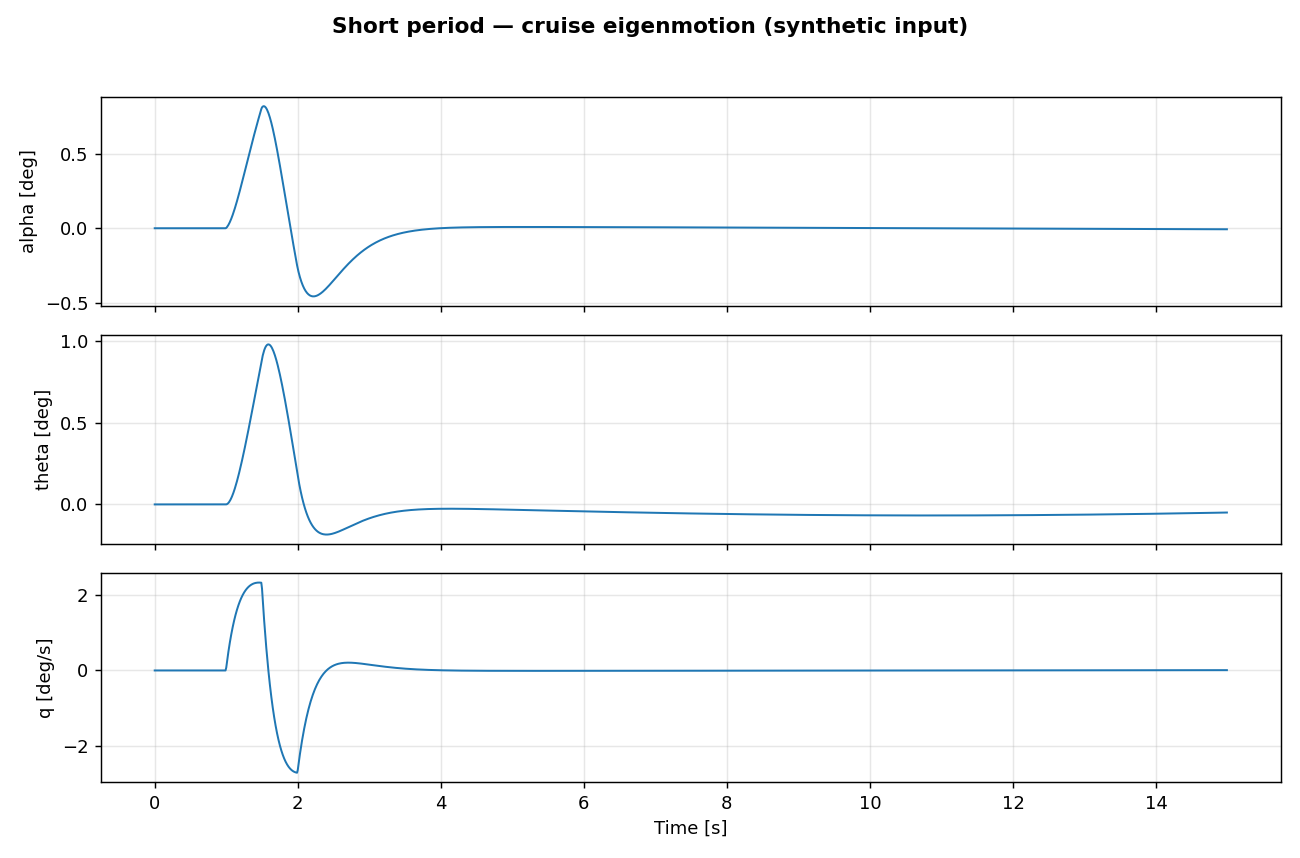
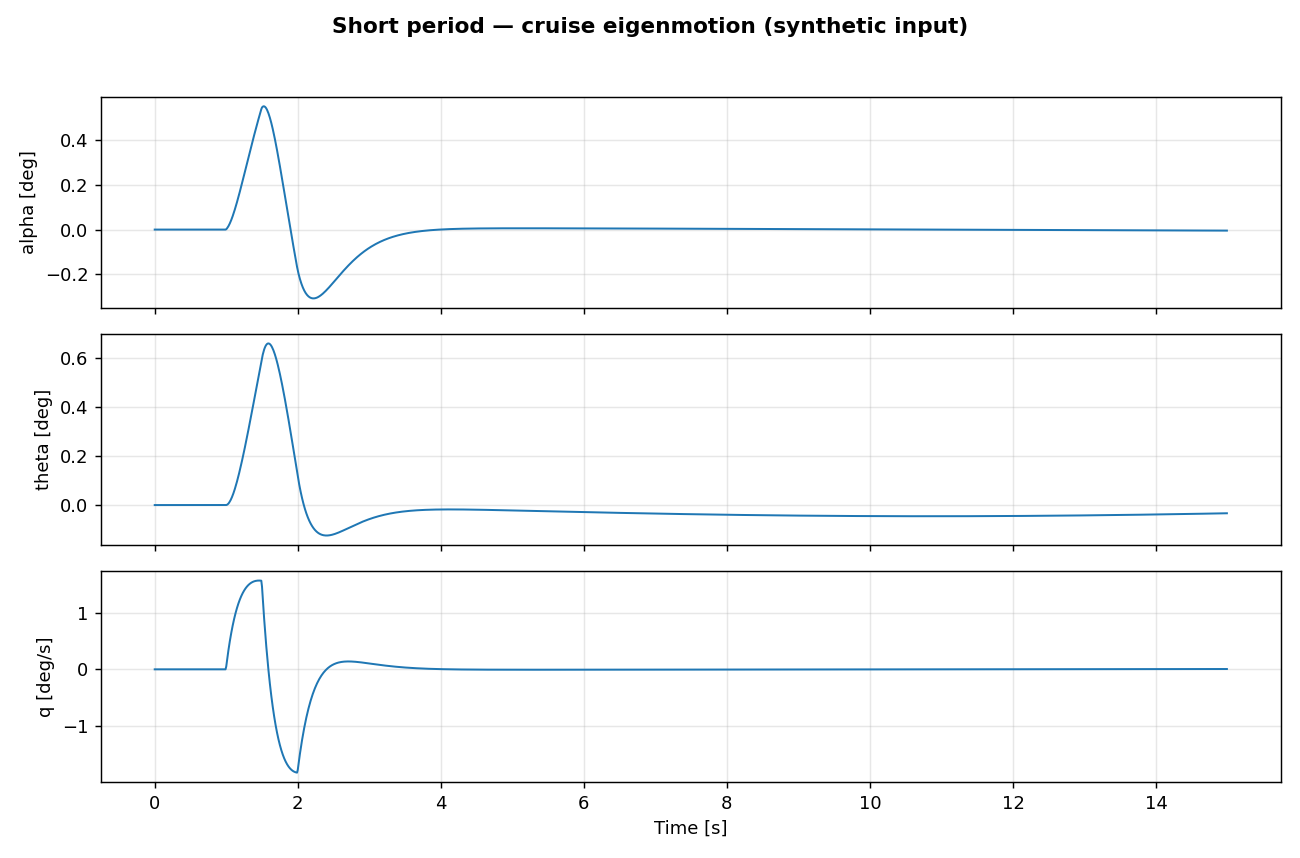
Update vd_parameters.py

diff --git a/final_characteristics/vehicle_dynamics/vd_parameters.py b/final_characteristics/vehicle_dynamics/vd_parameters.py
@@ -176,12 +176,12 @@ class ControlSurfaceGeometry:
     factors feed K_b / strip integration.
     """
     elevator_cf_c:       float = 0.3   # [-] flap-chord / wing-chord ratio
-    elevator_Kb:         float = 0.46   # [-] flap-span factor (Fig 6.1.4.1)
+    elevator_Kb:         float = 0.31   # [-] flap-span factor (Fig 6.1.4.1)
     elevator_on_surface: str   = "aw"   # which wing carries the elevator ('fw' or 'aw')
 
     aileron_cf_c:        float = 0.3   # [-]
-    aileron_eta_inner:   float = 0.35   # [-] inboard span station
-    aileron_eta_outer:   float = 0.77   # [-] outboard span station
+    aileron_eta_inner:   float = 0.23   # [-] inboard span station
+    aileron_eta_outer:   float = 0.62   # [-] outboard span station
 
     rudder_cf_c:         float = 0.2   # [-]
 
